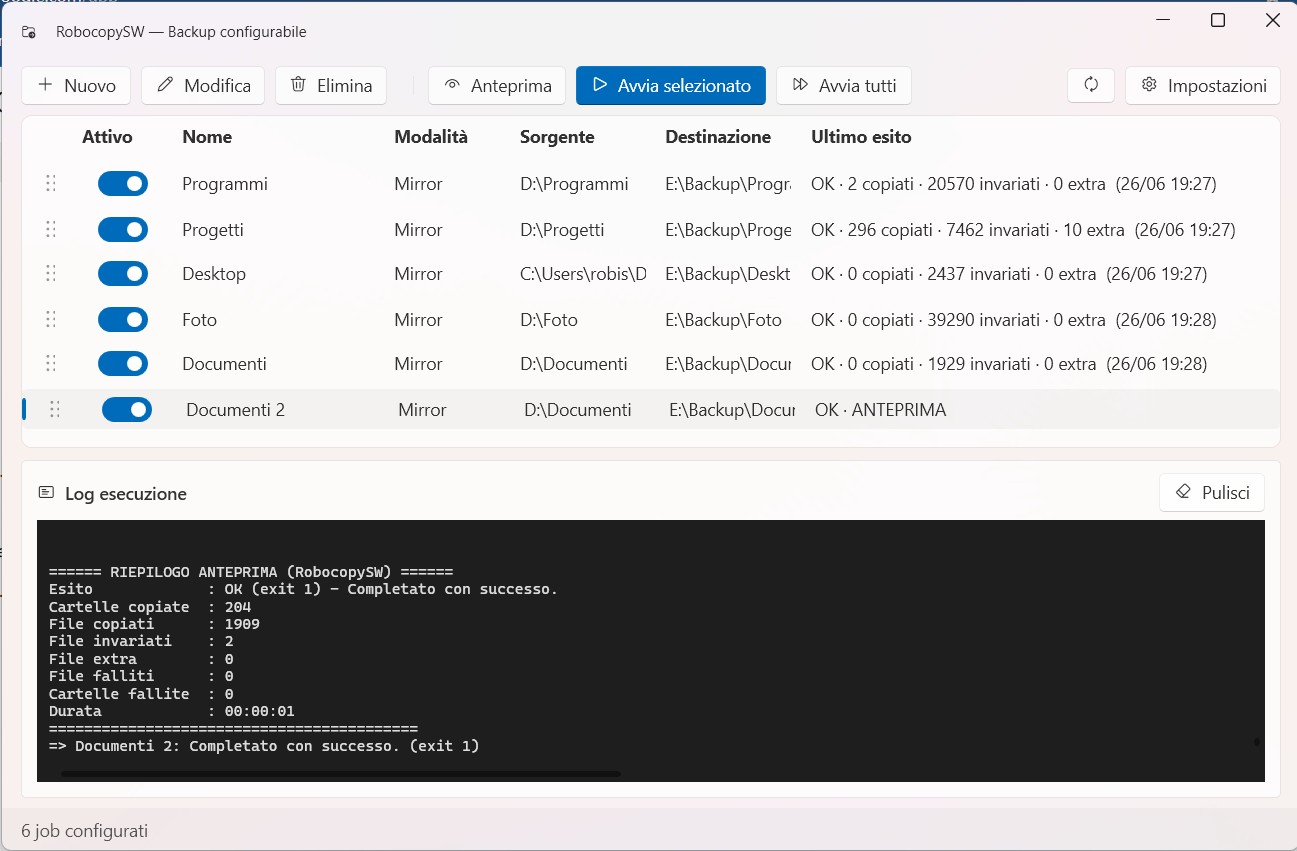
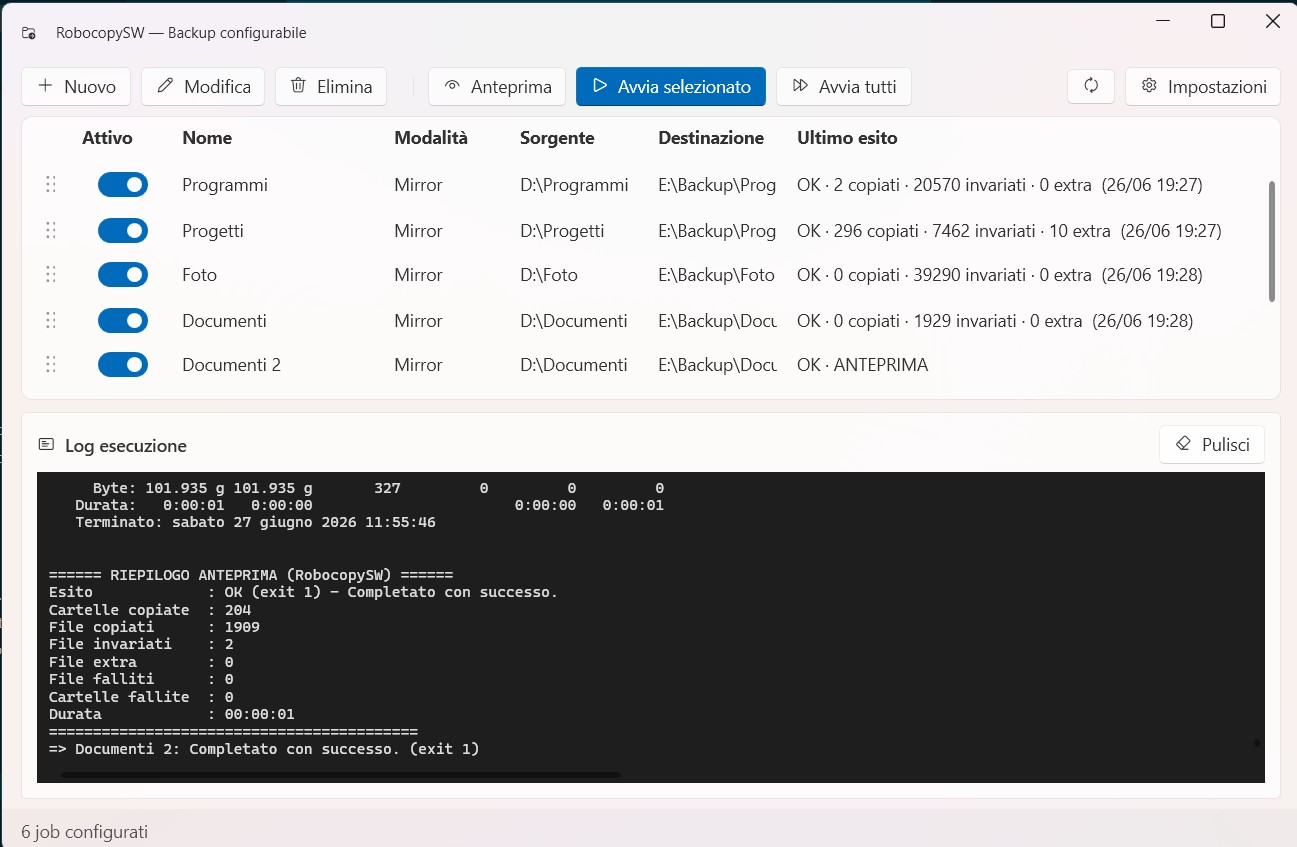
docs: ANALISI ricentrata su obiettivo e strumenti nativi; README ripulito
ANALISI: tolta l'analisi formale del sistema a script e la tabella di
alternative; focus su cosa si voleva ottenere usando robocopy e .NET
nativi. README: tono meno -sostituisce il vecchio sistema-, hero senza
username nello screenshot.

diff --git a/ANALISI.md b/ANALISI.md
@@ -1,61 +1,41 @@
-# RobocopySW — Documento di Analisi e Design
+# RobocopySW — Obiettivo e scelte di progetto
 
-Analisi che ha portato al prodotto: dal sistema a script batch esistente all'applicazione .NET
-finita, con le scelte tecniche e il design realizzato.
+Cosa si voleva ottenere e come è stato realizzato, sfruttando gli strumenti già presenti in Windows.
 
-## 1. Scopo
+## Obiettivo
 
-Sostituire l'insieme di script batch che pilotano **robocopy** per i backup/mirroring, con un'**applicazione desktop Windows configurabile da interfaccia grafica**, mantenendo invariato il comportamento di copia ma eliminando la modifica manuale dei file.
+Partendo da alcuni semplici script batch personali costruiti attorno a **robocopy**, si voleva
+un'**applicazione desktop con interfaccia grafica** per gestire i backup/mirroring: la stessa copia
+affidabile di sempre, ma con la configurazione centralizzata in un unico file e modificabile da GUI,
+senza più editare script a mano.
 
-Comportamento di backup richiesto (invariato): per ogni coppia sorgente→destinazione, ricorsivo su sottocartelle, robocopy
-- **salta** i file identici (stessa data/ora di ultima modifica e dimensione),
-- **sovrascrive** in destinazione i file la cui sorgente è più recente,
-- **rimuove** dalla destinazione i file/cartelle non più presenti in sorgente (modalità mirror).
+Comportamento di copia (per ogni job sorgente → destinazione, ricorsivo sulle sottocartelle):
+- **salta** i file identici (stessa data/ora di ultima modifica e dimensione);
+- **sovrascrive** in destinazione i file la cui sorgente è più recente;
+- in **mirror** (`/MIR`, default) **rimuove** dalla destinazione i file/cartelle non più presenti in sorgente;
+- con mirror disattivato (`/E`) copia e aggiorna soltanto, **senza mai cancellare**.
 
-## 2. Analisi del sistema esistente (script batch)
+## Scelta di fondo: usare gli strumenti nativi di Windows
 
-Sistema a 3 livelli in batch + robocopy:
+L'idea guida è **non reinventare nulla e non aggiungere dipendenze esterne**:
 
-| Livello | Ruolo |
-|---|---|
-| **Creator** | Genera file job `.RCJ` con `robocopy … /save:` |
-| **Executor** | Esegue un `.RCJ` con `robocopy /job:`, scrive il log, lo comprime in `.zip` con 7-Zip in `logs\AAAAMMGG\`, opzionale email via `vbs/sendmail.vbs` |
-| **Orchestrator** | Esegue in sequenza i job |
+- **Motore di copia → il `robocopy` di sistema.** È già incluso in Windows, collaudato da anni,
+  multi-thread e **sempre aggiornato con Windows Update**. L'app si limita a costruire il comando
+  giusto, eseguirlo e leggerne l'esito — e ne mostra in **anteprima l'esatta riga di comando**, così
+  non è una scatola nera. Si usa `%WINDIR%\System32\Robocopy.exe`, non un eseguibile incluso a mano.
+- **Contorno → .NET nativo.** Compressione dei log (`System.IO.Compression`) e invio email
+  (`System.Net.Mail`) fatti direttamente in .NET, **senza tool esterni** di archiviazione o di posta.
+- **Piattaforma → .NET 10 (LTS) con WPF/MVVM.** Supporto a lungo termine e interfaccia desktop nativa Windows.
 
-Switch robocopy usati nei `.RCJ`: `/MIR /XJ /COPY:DATS` (o `/COPYALL`) `/R:n /W:n /V /TEE`. Naming log: `AAAAMMGG-HHMMSS-<job>.log` → zip in `logs\AAAAMMGG\`. Logica esito da exit code in `sendmail.vbs`.
+Perché non un programma di sincronizzazione già pronto (FreeFileSync, rsync e simili)? Perché si
+voleva **restare sul robocopy già in uso** e avere un'app cucita su questi job, senza imparare né
+dipendere da software di terzi: il valore aggiunto mancante non era il motore di copia, ma lo strato
+di **GUI + configurazione** sopra robocopy.
 
-### Punti deboli rilevati
-- **Configurazione sparsa e duplicata** su decine di `.cmd`, con percorsi *hardcoded* e incoerenti tra installazioni.
-- Aggiungere/modificare un backup = editare a mano più file batch (fragile, error-prone).
-- Dipendenze esterne incluse a mano: `7z.exe`, un `robocopy.exe` **datato**, `sendmail.vbs`.
-- Nessuna anteprima prima di un mirror distruttivo; nessun multi-threading; gestione data/ora fragile (dipende dal formato locale di `DATE/T`/`TIME/T`).
+## Design
 
-## 3. Verifica tecnologica ("è aggiornato o c'è qualcosa di più nuovo?")
-
-### 3.1 Motore di copia: robocopy
-- **robocopy è pienamente supportato e attuale.** Documentato da Microsoft per Windows 10/11 e Windows Server fino alle versioni più recenti; **nessuna deprecazione** annunciata.
-- È **parte integrante di Windows**: non esiste un pacchetto scaricabile separatamente; si aggiorna **solo con Windows Update**. Il motore interno è stabile da anni.
-- Decisione: l'app usa **il robocopy di sistema** (`%WINDIR%\System32\Robocopy.exe`), così eredita sempre l'ultima versione fornita da Windows. Il `robocopy.exe` datato dei vecchi script **non** viene usato.
-
-### 3.2 Alternative valutate (e perché restiamo su robocopy)
-| Alternativa | Tipo | Verdetto |
-|---|---|---|
-| **FreeFileSync** | GUI sync open source | Ottimo ma è un prodotto a sé: non riusa la logica/job esistenti, ennesima UI di terzi da imparare |
-| **rsync / cwRsync** | CLI Unix portata | Potente ma estraneo all'ecosistema, semantica e permessi NTFS meno naturali su Windows |
-| **FastCopy / TeraCopy** | GUI copia veloce | Orientati a copie manuali, non a mirroring schedulato con log/credenziali |
-| **Rclone** | CLI cloud/sync | Eccellente per cloud, sovradimensionato per mirror locale/UNC |
-| **Macrium / Acronis / Veeam** | Backup commerciale | Backup a immagine/incrementale, a pagamento, diverso caso d'uso |
-| **robocopy + GUI custom (questa soluzione)** | wrapper nativo | ✅ Mantiene **identico** il comportamento già in uso, **zero dipendenze nuove**, nativo, e aggiunge proprio lo strato GUI/config mancante |
-
-**Conclusione:** la cosa "più nuova e indicata" non è cambiare motore, ma **incapsulare robocopy in un'app moderna**. È l'approccio adottato.
-
-### 3.3 Piattaforma applicativa: .NET
-- **.NET 10 è l'attuale LTS** (supporto a lungo termine), preferito a .NET 8 che è prossimo al fine vita. Target: **`net10.0` / `net10.0-windows`**.
-- Compressione log e invio email vengono fatti **nativamente in .NET** (`System.IO.Compression`, `System.Net.Mail`): si eliminano `7z.exe` e `sendmail.vbs`.
-
-## 4. Design realizzato
-
-App **WPF .NET 10 (MVVM)**, configurazione centralizzata in **un unico `config.json`** editabile da GUI. Robocopy come motore. Due modalità d'uso:
+App **WPF .NET 10 (MVVM)**, configurazione centralizzata in **un unico `config.json`** editabile da
+GUI. Due modalità d'uso:
 - **Interattiva (GUI):** gestione job, creazione guidata, avvio manuale, **anteprima/dry-run**, log e report.
 - **Silenziosa (CLI):** `RobocopySW.exe --run-all` / `--job "Nome"` → per le attività pianificate di Task Scheduler.
 
@@ -67,7 +47,9 @@ src/
   RobocopySW.Tests/   xUnit (args builder, exit-code interpreter, config round-trip, planner forza copia/wizard, integrazione runner)
 ```
 
-Il cuore della logica è **puro e testabile** (nessun I/O): `RobocopyArgsBuilder` (opzioni → argomenti), `ExitCodeInterpreter` (exit code → esito), `ForceCopyPlanner` e `JobWizardPlanner`. L'I/O (processo robocopy, file, rete, email, scheduler) è isolato nei servizi.
+Il cuore della logica è **puro e testabile** (nessun I/O): `RobocopyArgsBuilder` (opzioni →
+argomenti), `ExitCodeInterpreter` (exit code → esito), `ForceCopyPlanner` e `JobWizardPlanner`. L'I/O
+(processo robocopy, file, rete, email, scheduler) è isolato nei servizi.
 
 ### Mappatura opzioni → switch robocopy (`RobocopyArgsBuilder`)
 | Opzione (GUI) | Switch |
@@ -101,7 +83,7 @@ cifrate con **DPAPI** (ambito utente o macchina) con test di connessione · pian
 Scheduler · riordino job in **drag &amp; drop** · ultimo esito persistito e visibile in lista (anche
 dopo i run pianificati) · interfaccia in **5 lingue** (it/en/es/fr/de).
 
-## 5. Prodotto realizzato
+## Prodotto realizzato
 
 - **Engine puro in TDD:** `RobocopyArgsBuilder`, `ExitCodeInterpreter`, `ConfigStore`,
   `ForceCopyPlanner`, `JobWizardPlanner`, con suite di unit/integration test xUnit verde.
@@ -112,4 +94,4 @@ dopo i run pianificati) · interfaccia in **5 lingue** (it/en/es/fr/de).
 - **CLI headless** per la schedulazione (`--run-all`, `--job`, `--dry-run`, `--config`).
 - **Verifica end-to-end** su cartelle di prova e su backup reali.
 
-Gli script batch originali sono stati rimossi dal repository (anonimizzazione dei riferimenti interni).
+Gli script batch iniziali non fanno parte del repository.

diff --git a/README.md b/README.md
@@ -4,7 +4,7 @@
 
 RobocopySW mette una GUI moderna e una configurazione centralizzata sopra `robocopy`, lo
 strumento di copia di Windows: definisci i tuoi backup (sorgente → destinazione) una volta, e li
-avvii a mano, da riga di comando o pianificati — senza più scrivere o manutenere decine di script `.bat`.
+avvii a mano, da riga di comando o pianificati — senza scrivere né tenere aggiornati script a mano.
 
 ![Finestra principale di RobocopySW](docs/images/main-window.jpg)
 
@@ -17,8 +17,8 @@ avvii a mano, da riga di comando o pianificati — senza più scrivere o manuten
   chiarezza, non un nuovo algoritmo di copia da fidarsi al buio.
 - **Trasparente.** L'editor mostra in tempo reale **l'esatto comando robocopy** che verrà eseguito:
   nessuna scatola nera, sai sempre cosa succede.
-- **Una sola configurazione.** Tutti i job in un unico file JSON, editabili da GUI — al posto di
-  percorsi sparsi e duplicati in tanti file batch.
+- **Una sola configurazione.** Tutti i job in un unico file JSON, editabili da GUI, invece che
+  scritti e duplicati a mano.
 - **Creazione guidata.** Un wizard ti fa poche domande (tipo di dischi, comportamento, file
   speciali) e **imposta le opzioni ottimali**, evitando gli errori classici di robocopy.
 - **Locale, gratuito, senza cloud.** Nessuna telemetria, nessun account. Le credenziali delle share
@@ -141,4 +141,4 @@ Il file `config.json` reale e `lastresults.json` restano locali (non versionati)
 
 ## Approfondimenti
 
-Vedi **[ANALISI.md](ANALISI.md)** per l'analisi del sistema a script precedente e le scelte tecniche.
+Vedi **[ANALISI.md](ANALISI.md)** per l'obiettivo del progetto e le scelte tecniche (perché robocopy e .NET nativi).
